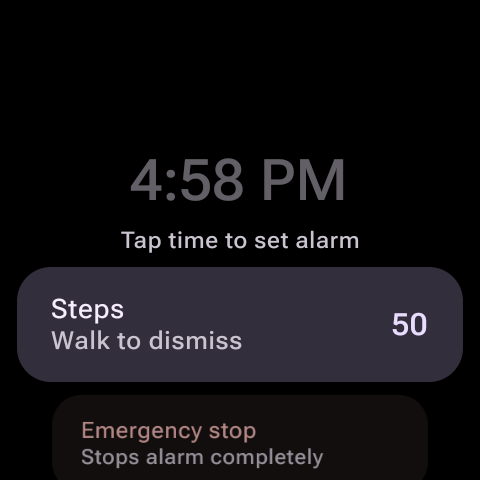
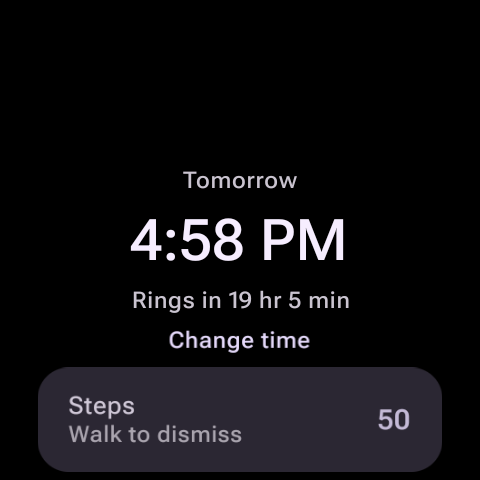
Always show Change time link, update screenshots
- Change time link now visible even when alarm is off
- Updated hint text to 'Tap time to enable alarm'
- Fresh screenshots showing Tomorrow label, countdown, and step picker

diff --git a/app/src/main/java/com/haritpanchal/wakeguard/MainActivity.kt b/app/src/main/java/com/haritpanchal/wakeguard/MainActivity.kt
@@ -207,22 +207,20 @@ class MainActivity : ComponentActivity() {
                             // Status below time
                             item {
                                 Text(
-                                    if (enabled) ringsIn else "Tap time to set alarm",
+                                    if (enabled) ringsIn else "Tap time to enable alarm",
                                     style = MaterialTheme.typography.bodySmall,
                                     color = MaterialTheme.colorScheme.onSurfaceVariant,
                                     textAlign = TextAlign.Center,
                                 )
                             }
-                            // Change time link
-                            if (enabled) {
-                                item {
-                                    Text(
-                                        "Change time",
-                                        style = MaterialTheme.typography.bodySmall,
-                                        color = MaterialTheme.colorScheme.primary,
-                                        modifier = Modifier.clickable { showTimePicker = true },
-                                    )
-                                }
+                            // Change time link (always visible)
+                            item {
+                                Text(
+                                    "Change time",
+                                    style = MaterialTheme.typography.bodySmall,
+                                    color = MaterialTheme.colorScheme.primary,
+                                    modifier = Modifier.clickable { showTimePicker = true },
+                                )
                             }
                             // Card-style rows (Samsung settings style)
                             item {
